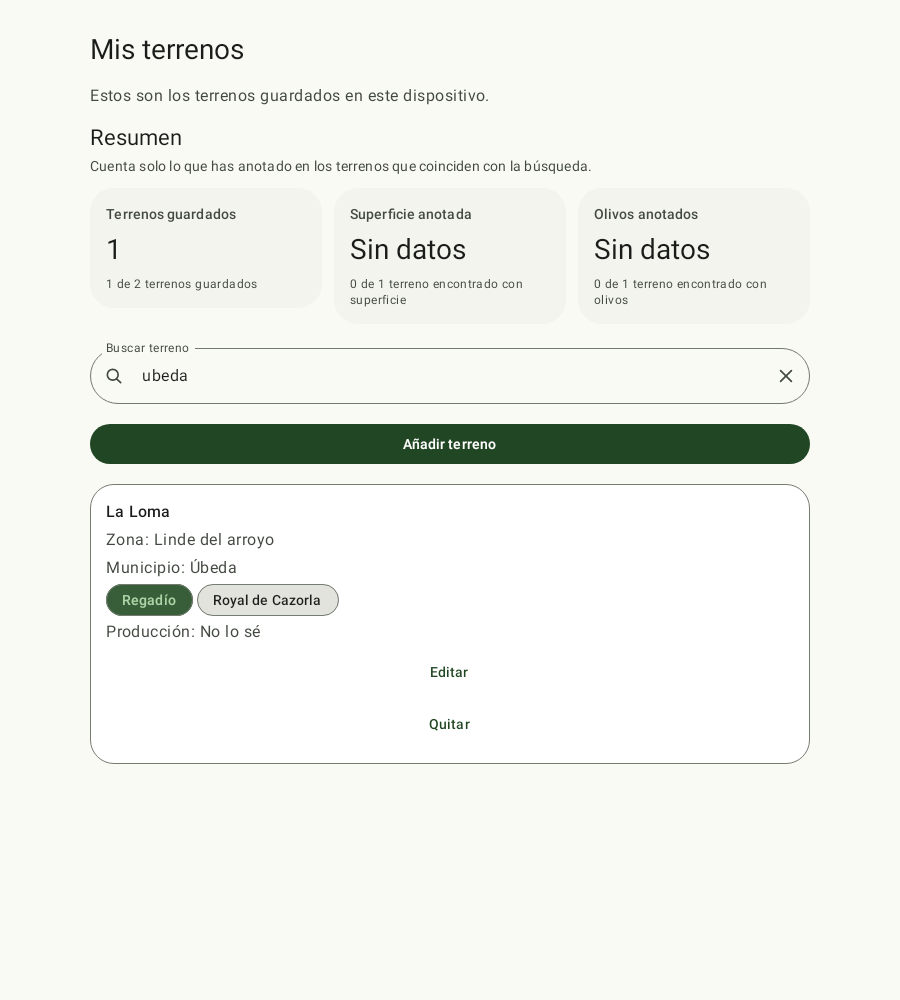
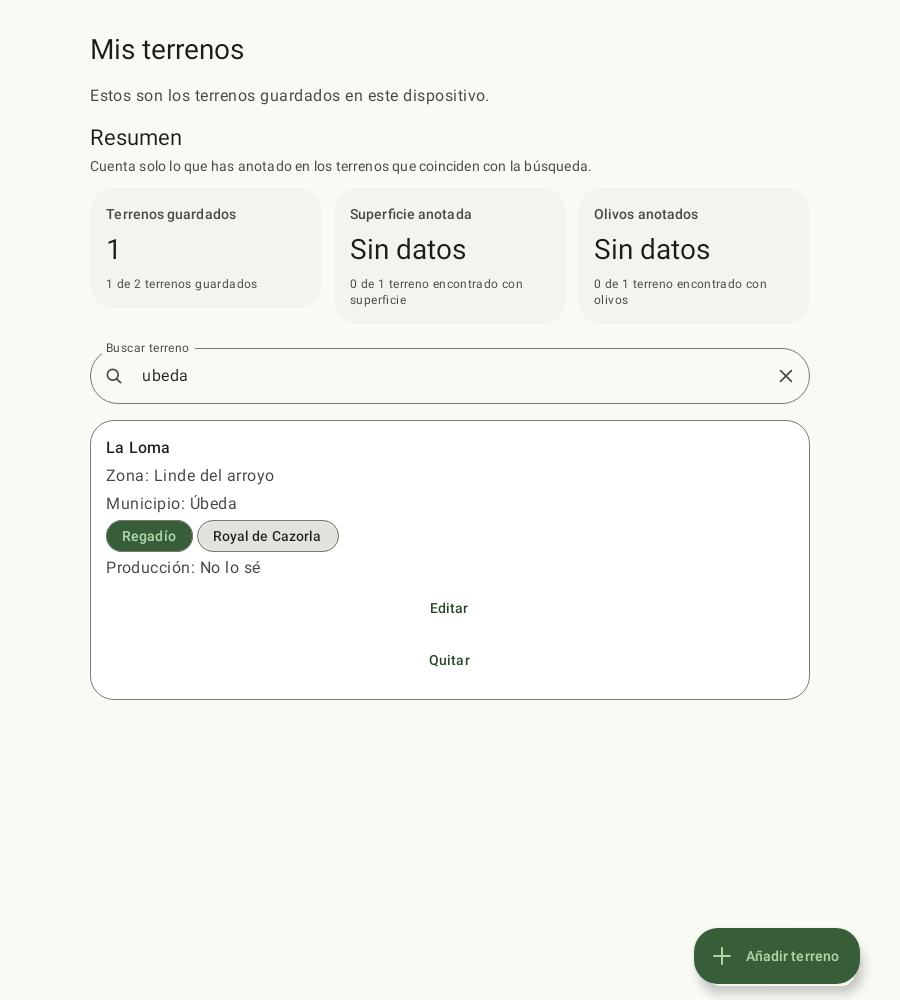
ui: move Añadir terreno to a floating action on Mis terrenos
The one Add action is now an extended floating action in the bottom end
corner above the tab bar (named Añadir terreno), with clearance after the
last row; the inline buttons and the empty-state button are removed. The
empty state's action slot becomes optional.

diff --git a/shared/src/commonMain/kotlin/com/jamarglex/manijero/lands/LandListScreen.kt b/shared/src/commonMain/kotlin/com/jamarglex/manijero/lands/LandListScreen.kt
@@ -5,6 +5,12 @@ import androidx.compose.foundation.layout.Column
 import androidx.compose.foundation.layout.Row
 import androidx.compose.foundation.layout.FlowRow
 import androidx.compose.foundation.layout.fillMaxWidth
+import androidx.compose.foundation.layout.Spacer
+import androidx.compose.foundation.layout.height
+import androidx.compose.material3.ExtendedFloatingActionButton
+import com.jamarglex.manijero.design.ManijeroIcon
+import com.jamarglex.manijero.design.screenHorizontalPadding
+import manijero.shared.generated.resources.ic_add
 import androidx.compose.foundation.layout.padding
 import androidx.compose.material3.Button
 import androidx.compose.material3.MaterialTheme
@@ -101,8 +107,9 @@ enum class LandListConfirmation { ADDED, UPDATED, REMOVED }
  * reading, persistence and the search text itself live in the caller. Top-level navigation is the
  * app shell's job, so this screen offers no `Volver`; the tabs are the way back.
  *
- * A successful read that found no land shows the shared empty state with one `Añadir terreno`
- * action and no summary or search. Otherwise the screen summarizes the annotated surface and olive
+ * A successful read that found no land shows the shared empty state with no summary or search. The
+ * one primary action, `Añadir terreno`, is a floating action in the bottom end corner in every state
+ * except a failed read (which offers `Reintentar`). Otherwise the screen summarizes the annotated surface and olive
  * count of exactly the lands it is showing, filters them as the person types, and keeps the rows
  * non-clickable with the exact saved name plus the few known details. Each row has its own visible
  * `Editar` control, and its own `Quitar` control whose accessible description names the exact
@@ -136,6 +143,9 @@ fun LandListScreen(
 ) {
     androidx.compose.foundation.layout.BoxWithConstraints(modifier = modifier) {
             val wideWindow = maxWidth >= WideWindowBreakpoint
+            // The one primary action floats in the bottom end corner whenever the list was read
+            // (empty or populated); a failed read offers `Reintentar` instead.
+            val showAddAction = !state.loadFailed
             ManijeroScreen {
                     Text(
                         text = stringResource(Res.string.chat_home_lands),
@@ -208,29 +218,51 @@ fun LandListScreen(
                         state.isEmpty -> ManijeroEmptyState(
                             title = stringResource(Res.string.land_list_empty_title),
                             body = stringResource(Res.string.land_list_empty_body),
-                            action = {
-                                Button(onClick = onAddLand) {
-                                    Text(stringResource(Res.string.land_list_add))
-                                }
-                            },
                         )
 
                         else -> LandListContent(
                             state = state,
                             wideWindow = wideWindow,
-                            onAddLand = onAddLand,
                             onEditLand = onEditLand,
                             onRemoveLand = onRemoveLand,
                             onQueryChange = onQueryChange,
                         )
                     }
+
+                    // Keeps the last row clear of the floating action.
+                    if (showAddAction) Spacer(modifier = Modifier.height(AddActionClearance))
+            }
+            if (showAddAction) {
+                val addLabel = stringResource(Res.string.land_list_add)
+                ExtendedFloatingActionButton(
+                    onClick = onAddLand,
+                    modifier = Modifier
+                        .align(Alignment.BottomEnd)
+                        .padding(
+                            end = screenHorizontalPadding(maxWidth),
+                            bottom = ManijeroSpacing.Comfortable,
+                        )
+                        // Material clears the label's semantics inside the button, so the accessible
+                        // name is stated here, identical to the visible text.
+                        .semantics { contentDescription = addLabel },
+                    icon = {
+                        ManijeroIcon(
+                            resource = Res.drawable.ic_add,
+                            contentDescription = null,
+                        )
+                    },
+                    text = { Text(addLabel) },
+                )
             }
     }
 }
 
+/** Space reserved at the end of the list so the floating action never covers the last row. */
+private val AddActionClearance = 72.dp
+
 /**
- * The populated list: the summary of the shown set, the search field, the single full-width Add
- * action, then the matching rows or the no-results panel.
+ * The populated list: the summary of the shown set, the search field, then the matching rows or the
+ * no-results panel. The Add action is the screen's floating action, not part of this column.
  *
  * The summary describes exactly the set the person is looking at: every saved land for a blank
  * query, only the matches otherwise. When nothing matches there is no summary, because a total for
@@ -240,7 +272,6 @@ fun LandListScreen(
 private fun LandListContent(
     state: LandListState,
     wideWindow: Boolean,
-    onAddLand: () -> Unit,
     onEditLand: (Land) -> Unit,
     onRemoveLand: (Land) -> Unit,
     onQueryChange: (String) -> Unit,
@@ -269,13 +300,6 @@ private fun LandListContent(
         clearDescription = stringResource(Res.string.land_search_clear),
         placeholder = stringResource(Res.string.land_search_hint),
     )
-
-    Button(
-        onClick = onAddLand,
-        modifier = Modifier.fillMaxWidth(),
-    ) {
-        Text(stringResource(Res.string.land_list_add))
-    }
 
     if (matches.isEmpty()) {
         LandNoResults(onClearQuery = { onQueryChange("") })

diff --git a/shared/src/jvmTest/kotlin/com/jamarglex/manijero/lands/LandScreenInteractionTest.kt b/shared/src/jvmTest/kotlin/com/jamarglex/manijero/lands/LandScreenInteractionTest.kt
@@ -1,11 +1,18 @@
 package com.jamarglex.manijero.lands
 
+import androidx.compose.runtime.getValue
+import androidx.compose.runtime.mutableStateOf
+import androidx.compose.runtime.setValue
 import androidx.compose.ui.test.ExperimentalTestApi
+import androidx.compose.ui.test.assertCountEquals
+import androidx.compose.ui.test.assertHeightIsAtLeast
+import androidx.compose.ui.test.onAllNodesWithContentDescription
 import androidx.compose.ui.test.onNodeWithContentDescription
 import androidx.compose.ui.test.onNodeWithText
 import androidx.compose.ui.test.performClick
 import androidx.compose.ui.test.v2.runDesktopComposeUiTest
 import com.jamarglex.manijero.theme.ManijeroTheme
+import androidx.compose.ui.unit.dp
 import kotlin.test.Test
 import kotlin.test.assertEquals
 
@@ -31,6 +38,33 @@ class LandScreenInteractionTest {
             onNodeWithContentDescription("Quitar el terreno «Los Olivos»").performClick()
             assertEquals(listOf(second), edits)
             assertEquals(listOf(first), removals)
+        }
+
+    @Test
+    fun theAddActionIsOneFloatingButtonInEveryStateExceptAFailedRead() =
+        runDesktopComposeUiTest(width = 900, height = 1200) {
+            val land = Land("first", "Los Olivos", "El Llano", createdAtEpochMillis = 0, updatedAtEpochMillis = 0)
+            var added = 0
+            var state by mutableStateOf(LandListState())
+            setContent {
+                ManijeroTheme(darkTheme = false) {
+                    LandListScreen(
+                        state = state,
+                        onAddLand = { added++ },
+                        onEditLand = {}, onRemoveLand = {}, onRetry = {}, onQueryChange = {},
+                    )
+                }
+            }
+            // Empty list: the one action floats in the corner, not inside the empty state.
+            onAllNodesWithContentDescription("Añadir terreno").assertCountEquals(1)
+            onNodeWithContentDescription("Añadir terreno").assertHeightIsAtLeast(48.dp).performClick()
+            assertEquals(1, added)
+
+            state = LandListState(lands = listOf(land))
+            onAllNodesWithContentDescription("Añadir terreno").assertCountEquals(1)
+
+            state = LandListState(loadFailed = true)
+            onNodeWithContentDescription("Añadir terreno").assertDoesNotExist()
         }
 
     @Test

diff --git a/shared/src/commonMain/kotlin/com/jamarglex/manijero/design/ManijeroEmptyState.kt b/shared/src/commonMain/kotlin/com/jamarglex/manijero/design/ManijeroEmptyState.kt
@@ -21,7 +21,7 @@ import com.jamarglex.manijero.theme.ManijeroTheme
 
 /**
  * The shared empty state: the decorative [ManijeroOliveBranch], a real heading, a plain explanation,
- * and exactly one [action] slot.
+ * and at most one [action] slot (a screen with its own floating action passes none).
  *
  * The illustration carries no semantics node, so a screen reader hears the heading and the body;
  * the caller supplies the single button (or other control) and its Spanish label, and the component
@@ -31,8 +31,8 @@ import com.jamarglex.manijero.theme.ManijeroTheme
 internal fun ManijeroEmptyState(
     title: String,
     body: String,
-    action: @Composable () -> Unit,
     modifier: Modifier = Modifier,
+    action: (@Composable () -> Unit)? = null,
 ) {
     Surface(
         modifier = modifier.fillMaxWidth(),
@@ -58,7 +58,7 @@ internal fun ManijeroEmptyState(
                 color = MaterialTheme.colorScheme.onSurfaceVariant,
                 textAlign = TextAlign.Center,
             )
-            action()
+            action?.invoke()
         }
     }
 }

diff --git a/docs/constraints/lands.md b/docs/constraints/lands.md
@@ -81,11 +81,12 @@ Durable MUST/MUST NOT rules for land editing, fields, storage, automatic copies,
   ids, notes or timestamps, rank, reorder, or drop a duplicate row. A query with no letters or digits
   MUST behave like a blank one. Reason: `land_search_and_summary`; matching a measure or note would
   reveal a value the search hint does not promise, and reordering would hide the stored order.
-- **MUST**: an empty store MUST show the shared olive-branch empty state with exactly one primary
-  `Añadir terreno` action and no summary cards and no search field, and a query with no match MUST
-  show one plain sentence with a named clear action while the `Añadir terreno` action stays
-  reachable. Reason: `land_search_and_summary`; a second Add action, or cards over zero shown lands,
-  would offer an action twice or state a total nobody can see.
+- **MUST**: an empty store MUST show the shared olive-branch empty state with no summary cards and no
+  search field, and a query with no match MUST show one plain sentence with a named clear action.
+  Exactly one `Añadir terreno` action MUST exist in both states and while lands are listed, as the
+  floating action in the bottom end corner (owner decision 2026-11-08; it is absent only after a
+  failed read, which offers `Reintentar`). Reason: `land_search_and_summary`; a second Add action,
+  or cards over zero shown lands, would offer an action twice or state a total nobody can see.
 
 ## Land removal
 

diff --git a/DESIGN.md b/DESIGN.md
@@ -296,6 +296,9 @@ them; feature specs own screen-specific behavior.
 ## Layout and interaction
 
 - Give each screen one primary action, with plain labels such as “Añadir terreno” and “Preguntar”.
+  On `Mis terrenos` it is an extended floating action (`ic_add` plus the visible label, named
+  `Añadir terreno`) in the bottom end corner above the tab bar, with clearance after the last row so
+  it never covers a land; the empty state carries no second button.
 - Use a clear heading, short explanation, and predictable back/home navigation and action placement.
 - Provide large mobile touch targets, comfortable Desktop pointer targets, keyboard operation, and
   visible focus. Essential instructions must not depend on hover.
